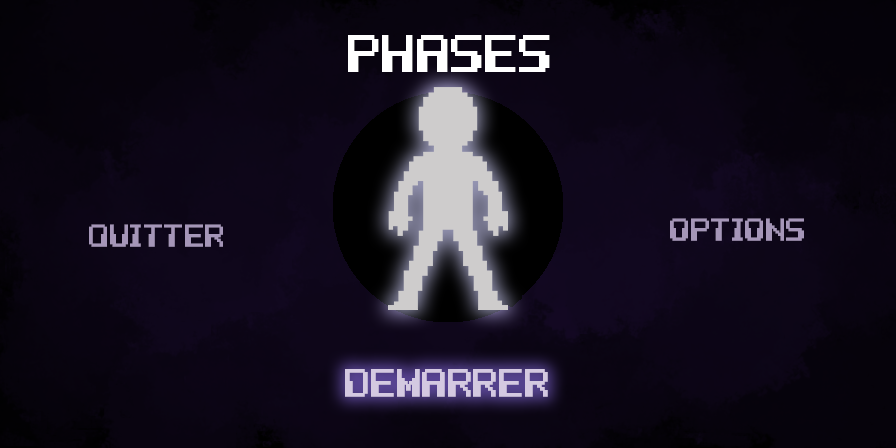
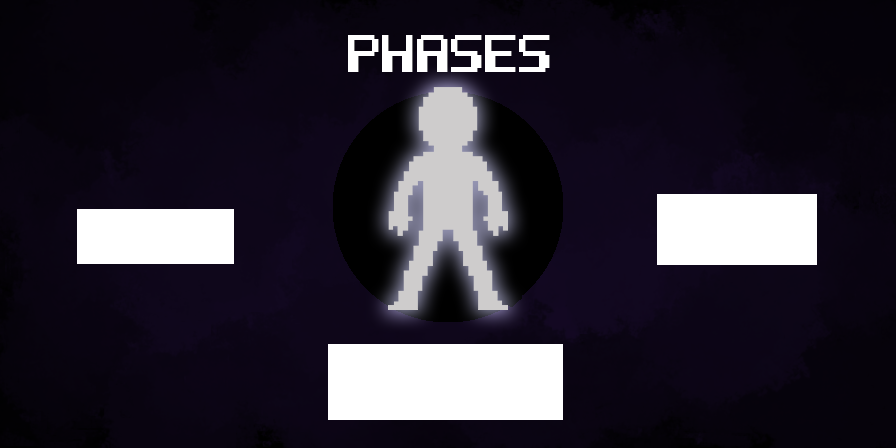
ajout menu + fixs

Changed region(s): [[0.3438, 0.75, 0.6562, 0.9375], [0.7188, 0.4062, 0.9375, 0.5938], [0.0625, 0.4688, 0.2812, 0.5938]]

diff --git a/Niveau3.js b/Niveau3.js
@@ -14,6 +14,8 @@ preload()
     this.load.tilemapTiledJSON('map', 'ma_map.json');
     this.load.image('tileset', 'assets/tileset_bien_fait.png');
     this.load.image('fond', 'assets/fond.png');
+    this.load.image('boss', 'assets/boss.png');
+    this.load.image('portail', 'assets/portail.png');
 }
 //Fin preload
 //____________________________________________________________________________________________________________
@@ -35,12 +37,16 @@ create()
 
     //Placement et définition du personnage
     //_____________________________________
-    this.player = this.physics.add.image(50,400, 'perso');
+    this.joueur = this.physics.add.group();
+    this.player = this.joueur.create(50,400, 'perso');
     this.player.direction = 'right';
-    this.player.setBounce(0);
     this.player.setCollideWorldBounds(true);
 
+    this.miroir = this.physics.add.group();
+    this.portail = this.miroir.create(3825, 450, 'portail').body.setAllowGravity(false);
     //Placement et définition du boss
+    this.boss = this.physics.add.group();
+    new boss(this,500, 700, 'boss').body.setAllowGravity(false);
     //_______________________________
     //this.ennemi = this.physics.add.image(400, 50, 'ennemi');
     //this.ennemi.setCollideWorldBounds(true);
@@ -48,6 +54,8 @@ create()
     //Mise en place des contrôles clavier
     //___________________________________
     this.cursors = this.input.keyboard.createCursorKeys();
+
+    this.physics.add.collider(this.player, this.miroir, this.hitPortail, null, this);
 
     this.physics.add.collider(this.player, this.poutres);
     this.poutres.setCollisionByProperty({collides:true});
@@ -60,10 +68,14 @@ create()
 
     this.physics.add.collider(this.player, this.pics, this.death, null, this);
     this.pics.setCollisionByProperty({mortal:true});
-
+    
+    
     this.cameras.main.setBounds(0, 0, this.map.widthInPixels, this.map.heightInPixels);
     this.cameras.main.setSize(config.width, config.height);
     this.cameras.main.startFollow (this.player);
+    
+    /*this.physics.add.collider(this.boss, this.poutres);
+    this.physics.add.collider(this.boss, this.murs);*/
 }
 //Fin create
 //_________________________________________________________________________________________________________________________
@@ -94,6 +106,21 @@ update()
     if(this.player.body.blocked.down){
         saut = 1;
     }
+    
+    for(var i = 0; i < this.boss.getChildren().length; i++){
+            let bosses = this.boss.getChildren()[0];
+            if(bosses.ia(this.player)){
+                if(bosses.direction == 'right') {
+                    
+                this.projectiles.create(bosses.x, bosses.y, 'balle').setVelocityX(300).body.setAllowGravity(false);
+                }
+                
+                else{
+                this.projectiles.create(bosses.x, bosses.y, 'balle').setVelocityX(-300).body.setAllowGravity(false);
+
+                }
+            }
+        }
   
 }
 //Fin update
@@ -103,6 +130,10 @@ death(){
     vie = 0;
     this.physics.pause();
     this.player.setTint('0xff0000');
+}
+    
+hitPortail(joueur, miroir){
+    this.scene.start('Menu');
 }
 
 //FIN SCENE

diff --git a/Menu.js b/Menu.js
@@ -6,12 +6,11 @@ class Menu extends Phaser.Scene{
 
 preload()
 {
-    var bouton1;
-    var bouton2;
-    var bouton3;
-
-
     this.load.image('menu', 'assets/Menu.png');
+    this.load.image('demarrer', 'assets/demarrer.png');
+    this.load.image('Option', 'assets/option.png');
+    this.load.image('Quitter', 'assets/quitter.png');
+
 }
 //Fin preload
 //_________________________________________________________________________________________________________________________
@@ -20,11 +19,29 @@ create()
 {   
     this.add.image(448,224,'menu');
 
-    this.input.once('pointerdown', function (event)
-    {
-        this.scene.start('Niveau3');
-    }, this);
+    let demarrerButton = this.add.image(this.game.renderer.width / 2.01 , this.game.renderer.height / 1.175 , 'demarrer').setDepth(1);
+
+        demarrerButton.setInteractive();
+
+        demarrerButton.on("pointerdown", () => {
+            this.scene.start('Niveau3', {x : 960, y : 540});
+        })
     
+    let quitterButton = this.add.image(this.game.renderer.width / 5.775 , this.game.renderer.height / 1.89 , 'Quitter').setDepth(1);
+
+        quitterButton.setInteractive();
+
+        quitterButton.on("pointerdown", () => {
+            this.scene.remove();
+        })
+    
+    let optionButton = this.add.image(this.game.renderer.width / 1.215 , this.game.renderer.height / 1.95 , 'Option').setDepth(1);
+
+        optionButton.setInteractive();
+
+        optionButton.on("pointerdown", () => {
+            this.scene.start('Options');
+        })
 }
 //Fin create
 //_________________________________________________________________________________________________________________________
@@ -35,7 +52,7 @@ update()
 
 }
 //Fin update
-//_________________________________________________________________________________________________________________________
+//________________________________________________________________________________________________________________________
 
 //FIN SCENE
 }

diff --git a/boss.js b/boss.js
@@ -1,0 +1,54 @@
+class boss extends Phaser.GameObjects.Sprite{
+    constructor(scene, x, y, image){
+        super(scene, x, y, image);
+        
+        
+        scene.add.existing(this);
+        scene.boss.add(this);
+    }
+    
+    
+    ia(player){ 
+                
+        if(player.body.x < this.body.x){
+            this.flipX = false;
+        }
+
+        else if(player.body.x > this.body.x){
+            this.flipX = true;
+        }
+
+        if(player.body.x < this.body.x && Math.abs(player.body.x-this.body.x) < 300){
+            this.body.setAccelerationX(-600);
+        }
+
+        else if(player.body.x > this.body.x && Math.abs(player.body.x-this.body.x) < 300){
+            this.body.setAccelerationX(600);
+        }
+        
+        if(player.body.y < this.body.y && Math.abs(player.body.y-this.body.y)){
+            this.body.setAccelerationY(-600);
+        }
+        
+        else if(player.body.y > this.body.y && Math.abs(player.body.y-this.body.y)){
+            this.body.setAccelerationY(600);
+        }
+        
+        if(this.body.velocity.x > 500){
+            this.body.velocity.x = 500;
+        }
+
+        else if(this.body.velocity.x < -500){
+            this.body.velocity.x = -500;
+        }
+        
+        if(this.body.velocity.y > 500){
+            this.body.velocity.y = 500;
+        }
+        
+        else if(this.body.velocity.y < -500){
+            this.body.velocity.y = -500;
+        }
+    
+    }
+} // FIN CLASSE

diff --git a/Options.js b/Options.js
@@ -1,0 +1,38 @@
+class Options extends Phaser.Scene{
+    constructor()
+    {
+        super("Options");
+    }
+
+preload()
+{
+    this.load.image('controles', 'assets/controles.png');
+    this.load.image('retour', 'assets/retour.png');
+}
+//Fin preload
+//_________________________________________________________________________________________________________________________
+
+create()
+{
+    this.add.image(448, 224, 'controles')
+    
+    let retourButton = this.add.image(this.game.renderer.width / 8.58 , this.game.renderer.height / 1.158 , 'retour').setDepth(1);
+
+        retourButton.setInteractive();
+
+        retourButton.on("pointerdown", () => {
+            this.scene.start('Menu', {x : 960, y : 540});
+        })
+}
+//Fin create
+//_________________________________________________________________________________________________________________________
+
+update()
+{
+
+}
+//Fin update
+//_________________________________________________________________________________________________________________________
+
+//FIN SCENE
+}

diff --git a/main.html b/main.html
@@ -5,8 +5,9 @@
     <title>PHASES</title>
     <script src="//cdn.jsdelivr.net/npm/phaser@3.55.2/dist/phaser.js"></script>
     <script type="text/javascript" src="Menu.js"></script>
-    <script type="text/javascript" src="Parametres.js"></script>
+    <script type="text/javascript" src="Options.js"></script>
     <script type="text/javascript" src="Niveau3.js"></script>
+    <script type="text/javascript" src="boss.js"></script>
     <style type="text/css">
         body {
             margin: 0;
@@ -25,11 +26,11 @@ var config = {
         default: 'arcade',
         arcade: {
             gravity: {y:500},
-            debug: false
+            debug: true,
         }
     },
     input: {gamepad:true},
-    scene: [Menu, Parametres, Niveau3], 
+    scene: [Menu, Niveau3, Options], 
 };
 
 var game = new Phaser.Game(config);
